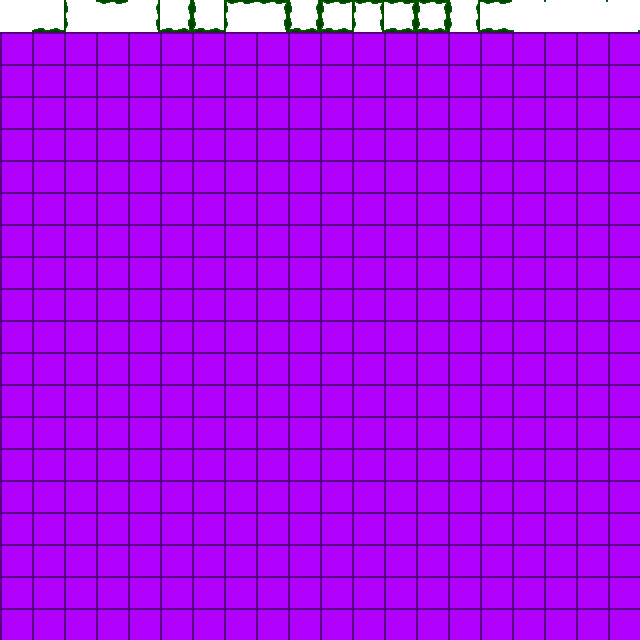
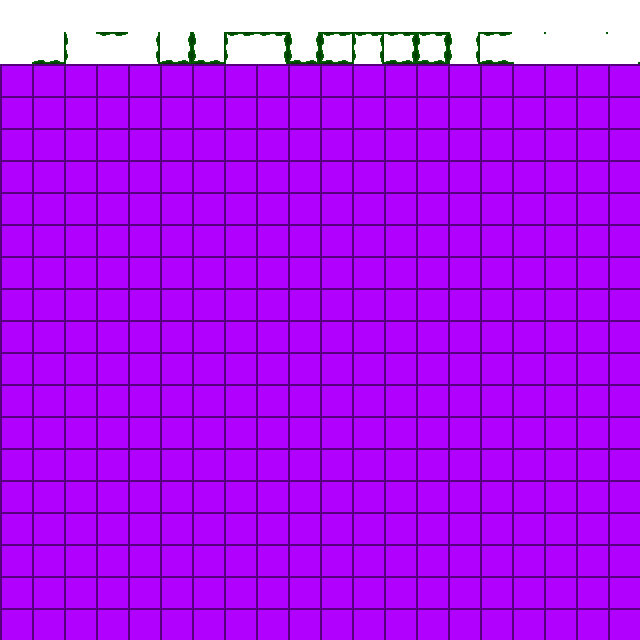
only showing grass border when block above is empty

Changed region(s): [[0.0, 0.0, 1.0, 0.125]]

diff --git a/src/main/java/fr/axicer/furryattack/common/map/frame/FrameBlock.java b/src/main/java/fr/axicer/furryattack/common/map/frame/FrameBlock.java
@@ -2,16 +2,12 @@ package fr.axicer.furryattack.common.map.frame;
 
 import fr.axicer.furryattack.client.render.texture.TextureAtlas;
 import org.joml.Vector2f;
-import org.slf4j.Logger;
-import org.slf4j.LoggerFactory;
 
 import java.util.*;
 import java.util.stream.Collectors;
 import java.util.stream.IntStream;
 
 public class FrameBlock {
-
-    private static final Logger LOGGER = LoggerFactory.getLogger(FrameBlock.class);
 
     private final FrameBlock[] neighbor;
     private final boolean solid;
@@ -98,7 +94,14 @@ public class FrameBlock {
             }
         }
 
-        int y = 0;//TODO no variant for the moment
+        int y;
+        if(isNeighborSolid(FrameOrientation.BOTTOM)){
+            y = 0;
+        }else{
+            y = 1;
+        }
+
+        //TODO add more decoration
 
         return new Vector2f(x * atlas.getRatioX(), y * atlas.getRatioY());
     }
@@ -125,6 +128,6 @@ public class FrameBlock {
         TOP,
         BOTTOM,
         LEFT,
-        RIGHT;
+        RIGHT
     }
 }
